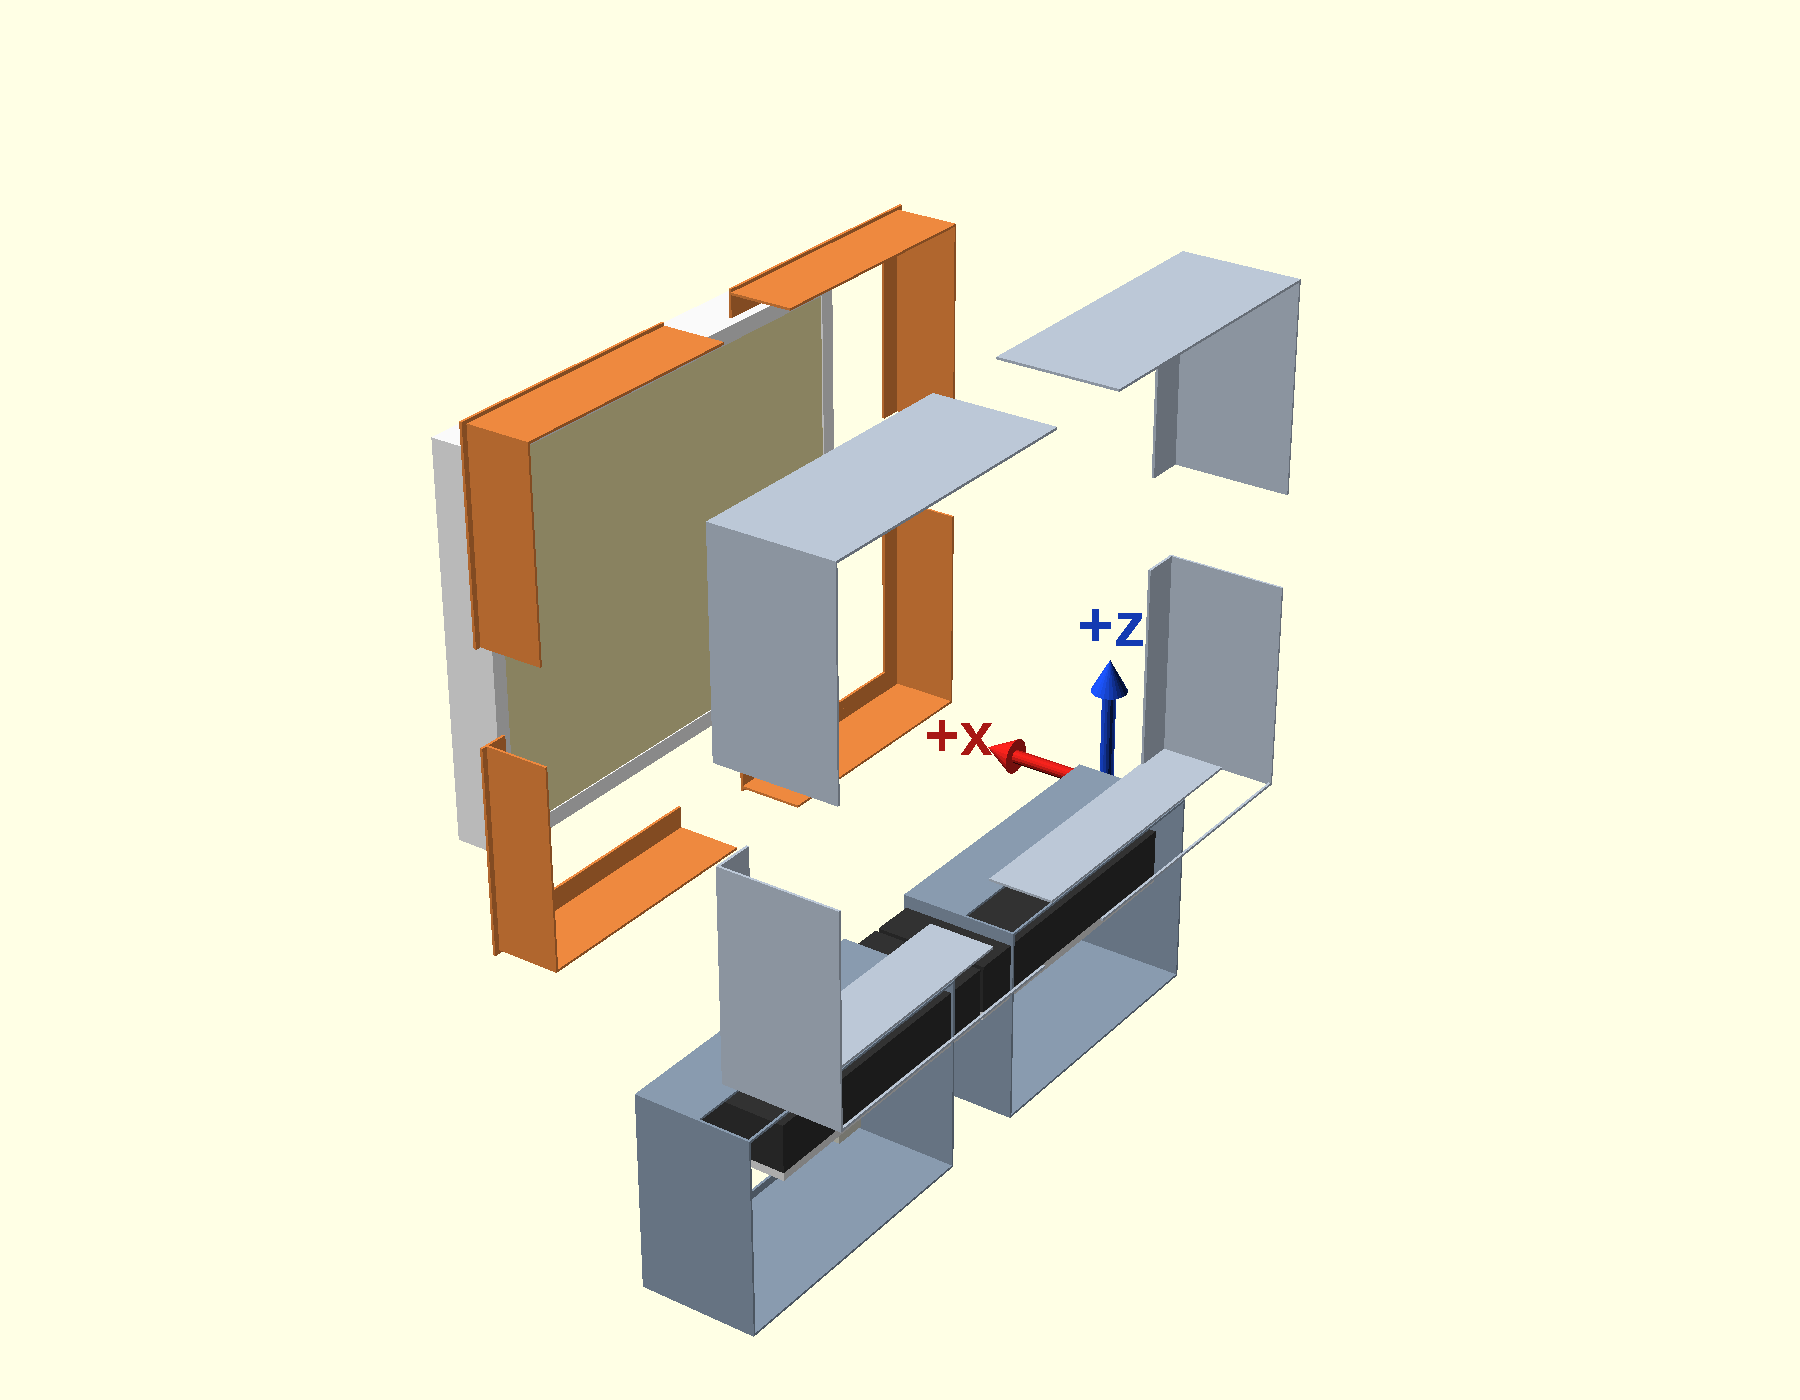
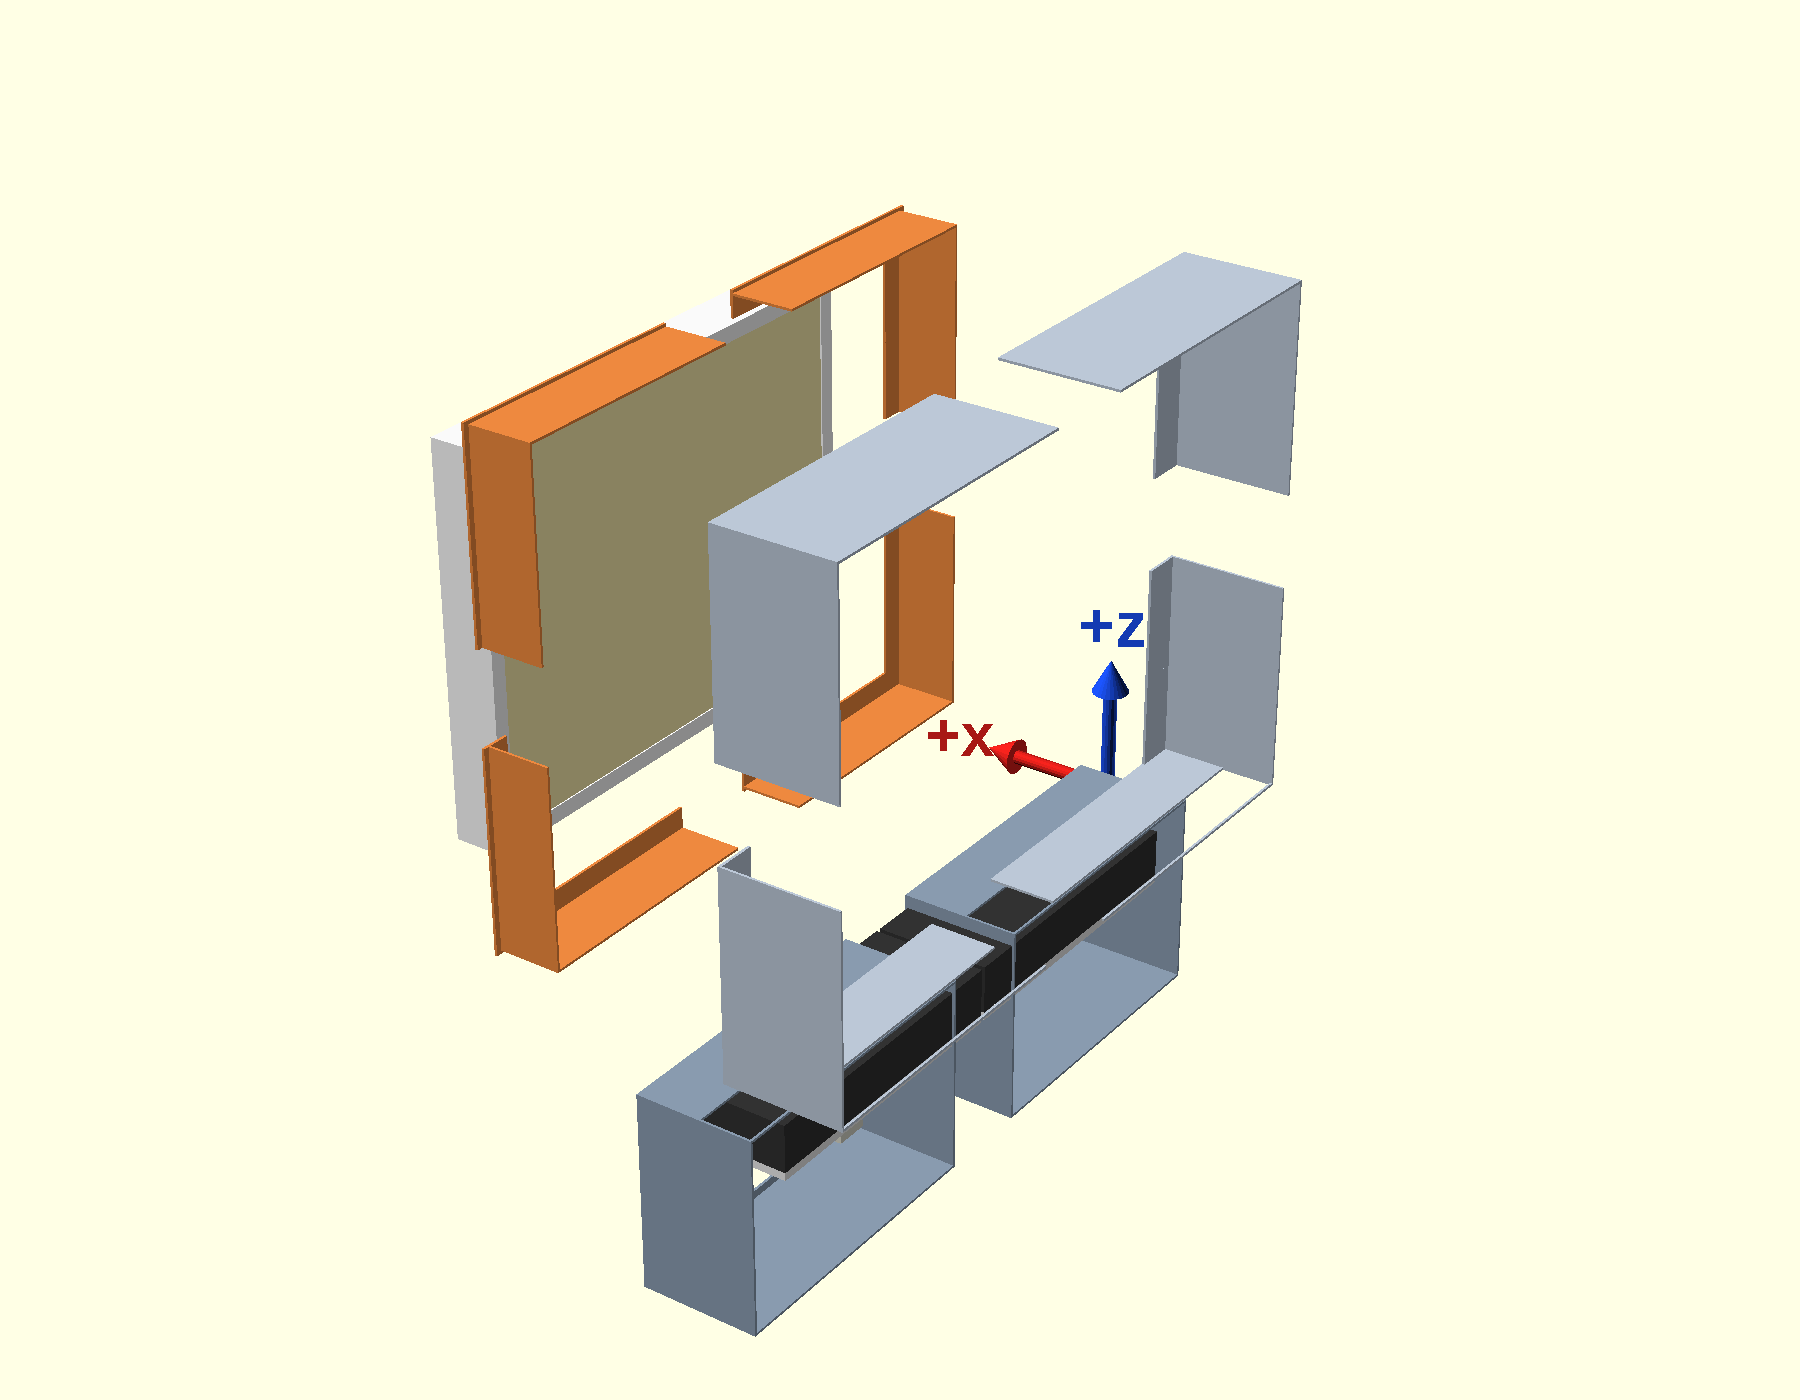
fix(filter-wall): the filter seals on its downstream face
The fans draw from under the carbon, so the plenum behind the filter is
below the chamber's pressure and the air pushes the filter towards the
room - off a seal at the inner face. So the seal goes on the filter's
downstream face, on a frame of its own behind it, clamped in from the
room's side; the air then presses the filter onto it, and it still
changes through the hatch. The cassette's plate at the inner face is a
stop now, placing the filter on it; the filter is drawn on the stop.

The README says which way the air pushes, that the stop's 2 mm plate
needs ribs so it does not bow, and that a low ring corner sliced too
(5 h 9 m, 56 g). The checks: 10 of 10 pieces clean, 4 of 4 controls
refused, the figures redrawn; reuse lint clean.

diff --git a/models/filter-wall/README.md b/models/filter-wall/README.md
@@ -10,7 +10,7 @@ the pieces they print in, and checked to fit the bed. Nothing here is ready to p
 parts inside are not drawn yet (see *Not drawn yet*).
 
 ![The filter wall from inside the chamber: the Lack's legs, floor and roof faint; the filter row on top, the
-cassette's land round the filter; the carbon row under it with the two outlets low](../../docs/diagrams/filter-wall/model-inside.png)
+cassette's stop round the filter; the carbon row under it with the two outlets low](../../docs/diagrams/filter-wall/model-inside.png)
 
 ![The wall exploded: the ring's four corners and the carbon row's two trays out into the room, the cassette's four
 corners and the filter in towards the chamber](../../docs/diagrams/filter-wall/model-exploded.png)
@@ -27,13 +27,22 @@ out past it (D301, D303 a): its inner face at x = 50, its outer at x = -40.
 | Part | Pieces | Each, as it prints | What it is |
 |---|---|---|---|
 | The ring | 4 | 225 × 155 × 90 mm, 58 or 75 g | The filter row's frame: its top under the roof, its bottom on the carbon row, its ends at the legs, a flange between each end and the cassette. Open towards the room, and over the plenum behind the cassette: the port down to the carbon. |
-| The cassette | 4 | 195 × 153 × 50 mm, 46 g | The filter's frame: a land as large as the row's inside, with a window the filter seals on, and the pocket's walls round the filter. |
+| The cassette | 4 | 195 × 153 × 50 mm, 46 g | The filter's frame: a stop as large as the row's inside, with a window, that the filter rests on, and the pocket's walls round it. The filter seals on its downstream face, behind it (below). |
 | The carbon row | 2 | 225 × 150 × 90 mm, 172 g | One tray each side of the middle, each its own airway: the port from above, the carbon, its floss, a Delta, and the clean air's plenum with its outlet low in the inner face. |
 
 Every piece prints on its inner face, along the wall on the bed's X: no support. About **0.8 kg of ASA** in all,
-and about 0.45 kg more in the hatches still to come. scad-check sliced two at the print profile's two perimeters:
-a cassette corner, 3 h 42 m, and a carbon tray, 14 h 23 m. The walls are drawn four perimeters wide, so print them
+and about 0.45 kg more in the hatches still to come. scad-check sliced three, one of each kind, at the print
+profile's two perimeters: a cassette corner, 3 h 42 m; a low ring corner, the one the port leaves a 1.8 mm strip
+of bottom wall in, 5 h 9 m; and a carbon tray, 14 h 23 m. The walls are drawn four perimeters wide, so print them
 with four.
+
+## Which way the air pushes the filter
+
+The fans draw from under the carbon, so the plenum behind the filter is below the chamber's pressure, and the air
+pushes the filter towards the room. So it seals on its **downstream** face: a seal on a frame of its own behind
+the filter, clamped in from the room's side through the hatch, and the air then presses the filter onto it. The
+stop at the inner face only places the filter. The filter still changes from outside: the hatch off, the seal's
+frame out, the filter out.
 
 ## The filter: measure it before the cassette is printed
 
@@ -71,12 +80,15 @@ one closed body on the bed, runs four controls that must each be refused by its 
 
 In the order they come:
 
-1. **How the pieces join**: flanges and screws into captive nuts at every seam, each seam sealed.
+1. **How the pieces join**: flanges and screws into captive nuts at every seam, each seam sealed. The cassette's
+   stop is a 2 mm plate 195 × 153 per corner: ribs behind it, or the stop folded into the pocket's walls, so it
+   does not bow.
 2. **What the carbon row holds**: the carbon's mesh floor, the floss's frame, the fans' plate cut for four, the
    sensors' mounts, the outlet's louvre.
-3. **The hatches** on the room's side, through which the filter and the carbon change, and the filter's retainers.
+3. **The hatches** on the room's side, through which the filter and the carbon change, and the seal's frame behind
+   the filter, with its clamps.
 4. **The purge**: a servo's damper and the 100 mm collar for the duct to the window, in the back tray (D300 a). No
    servo is chosen.
-5. **The seals and the fixing**: the land's seal and the wall's round its edge - foam tape, or TPU printed in
+5. **The seals and the fixing**: the filter's seal and the wall's round its edge - foam tape, or TPU printed in
    lengths, since the runs are longer than the bed - and how the wall fixes to the legs and lifts out (D291 a).
 6. **The electronics' box**, on the outer face.
